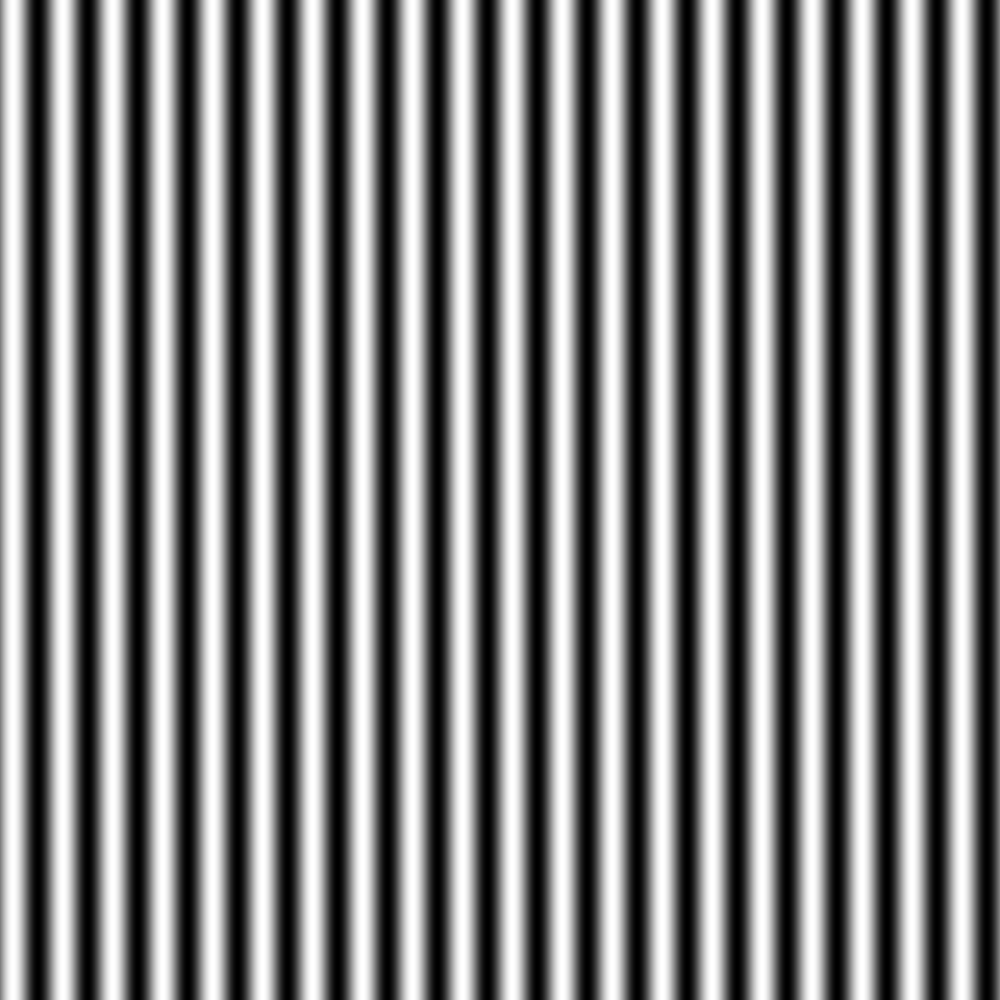
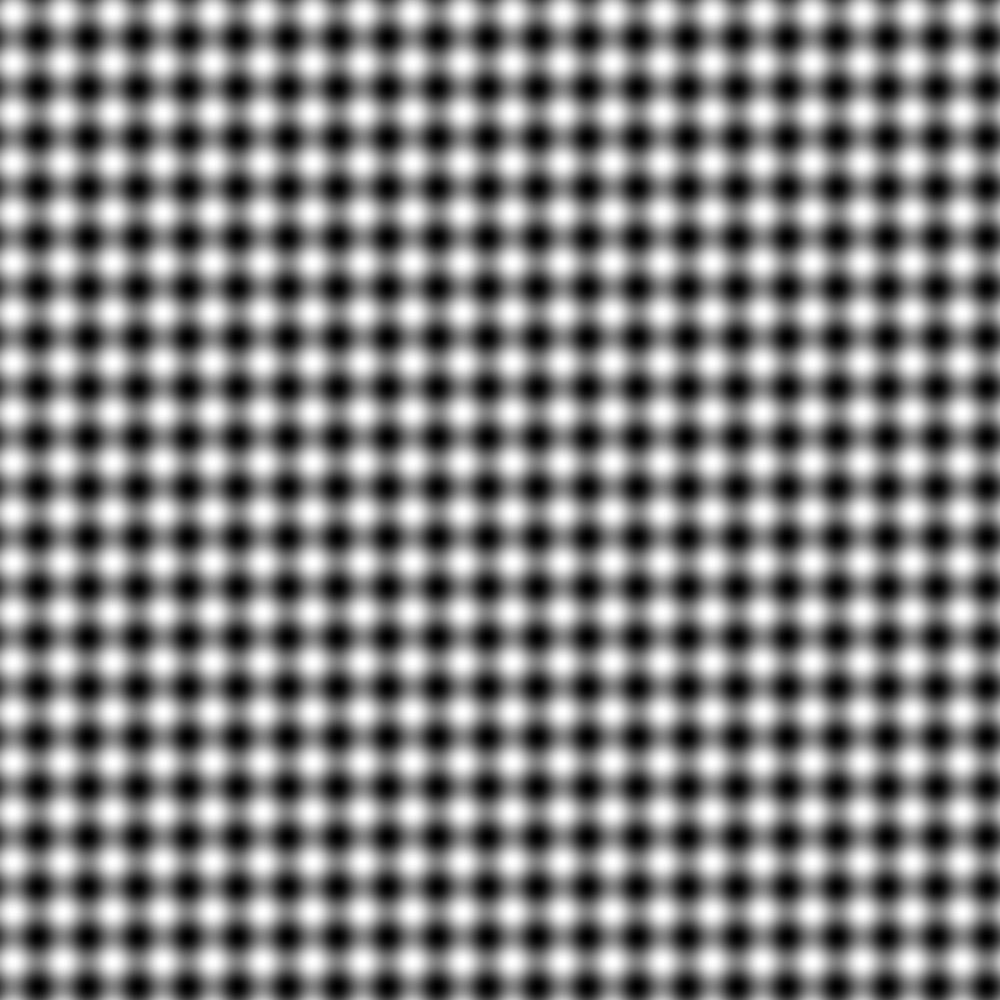
More playing with IC

diff --git a/crazyflie_projects/Featureless_TTC/Data_analysis.py b/crazyflie_projects/Featureless_TTC/Data_analysis.py
@@ -138,7 +138,7 @@ class DataParser:
             for i in range(1,HEIGHT_PIXELS - 1): 
                 for j in range(1,WIDTH_PIXELS - 1):
                     Ix[i,j] = np.sum(Cur_img[i-1:i+2,j-1:j+2] * Kx)/self.w
-                    Iy[i,j] = np.sum(Cur_img[i-1:i+2,j-1:j+2] * Ky)/self.w
+                    Iy[i,j] = -np.sum(Cur_img[i-1:i+2,j-1:j+2] * Ky)/self.w
 
 
 
@@ -195,81 +195,51 @@ class DataParser:
             print(f"Current Image: {n}/{self.Camera_array.shape[0]}")
                 
     def Plotter(self): #plot results
+        
+        fig, ax = plt.subplots(3,1, sharex = True)
+        ax[0].set_title("TTC Comparison")
+        # ax[0].plot(self.Time,self.TTC_est1,'r', label = 'TTC_est1')
+        ax[0].plot(self.Time,self.Tau,'b',label = 'TTC')
+        ax[0].plot(self.Time,self.TTC_est2,'g',label = 'TTC_est2')
+        ax[0].set_ylabel("TTC (seconds)")
+        ax[0].set_ylim(-1,6)
+        ax[0].grid()
+        ax[0].legend(loc='upper right')
+
+        ax[1].plot(self.Time,self.Z_pos,'g', label = 'Z position')
+        ax[1].set_ylim(-1,2.5)
+        ax[1].axhline(2.10,color='k',linestyle='dashed',label='Ceiling Height')
+        ax[1].set_ylabel("Position (m)")
+        ax[1].grid()
+        ax[1].legend(loc='lower right')
+
+        ax[2].plot(self.Time,self.Z_vel,color = 'black', label = 'Z velocity')
+        ax[2].plot(self.Time,self.X_vel,color = 'r', label = 'X velocity')
+        ax[2].set_ylim(-1,4.0)
+        ax[2].set_ylabel("Velocity (m)")
+        ax[2].set_xlabel("Time") 
+        ax[2].grid()
+        ax[2].legend(loc='upper right')
 
 
-        fig2 = plt.figure(1)
-        ax = fig2.add_subplot(111)
+        #plt.figure(2)
+        fig2 , ax2 = plt.subplots(2,1, sharex = True)
+        ax2[0].set_title('Optical Flow Comparison')
+        ax2[0].plot(self.Time,self.OFy, color = 'black', label = 'OFy')
+        ax2[0].plot(self.Time,self.OFy_est, color = 'r',label = 'OFy_est')
+        ax2[0].set_ylim(-1,10.0)
+        ax2[0].grid()
+        ax2[0].legend()
 
-        ax.plot(self.Time-self.Time[0],self.TTC_est2,'rx',label="Tau_algortihm")
-        ax.plot(self.Time-self.Time[0],self.Tau,label="Tau_actual")
-        ax.set_xlim(0,1.5)
-        ax.set_ylim(-1,4)
-
-        ax.grid()
-        ax.legend()
-
-        fig2.tight_layout()
-
-
-
-        fig3 = plt.figure(2)
-        ax = fig3.add_subplot(111)
-
-        ax.plot(self.Time-self.Time[0],self.OFy_est,'rx',label="OFy_est")
-        ax.plot(self.Time-self.Time[0],self.OFy,label="OFy_actual")
-        ax.set_xlim(0,1.5)
-        ax.set_ylim(-20,0)
-        ax.grid()
-        ax.legend()
-
-        fig3.tight_layout()
+        ax2[1].plot(self.Time,self.OFx, color = 'black',label = 'OFx')
+        ax2[1].plot(self.Time,self.OFx_est, color = 'b',label = 'OFx_est')
+        ax2[1].set_xlabel("Time")
+        ax2[1].set_ylabel('Optical Flow')
+        ax2[1].set_ylim(-1,10.0)
+        ax2[1].grid()
+        ax2[1].legend()
 
         plt.show()
-        
-        # fig, ax = plt.subplots(3,1, sharex = True)
-        # ax[0].set_title("TTC Comparison")
-        # # ax[0].plot(self.Time,self.TTC_est1,'r', label = 'TTC_est1')
-        # ax[0].plot(self.Time,self.Tau,'b',label = 'TTC')
-        # ax[0].plot(self.Time,self.TTC_est2,'g',label = 'TTC_est2')
-        # ax[0].set_ylabel("TTC (seconds)")
-        # ax[0].set_ylim(-1,6)
-        # ax[0].grid()
-        # ax[0].legend(loc='upper right')
-
-        # ax[1].plot(self.Time,self.Z_pos,'g', label = 'Z position')
-        # ax[1].set_ylim(-1,2.5)
-        # ax[1].axhline(2.10,color='k',linestyle='dashed',label='Ceiling Height')
-        # ax[1].set_ylabel("Position (m)")
-        # ax[1].grid()
-        # ax[1].legend(loc='lower right')
-
-        # ax[2].plot(self.Time,self.Z_vel,color = 'black', label = 'Z velocity')
-        # ax[2].plot(self.Time,self.X_vel,color = 'r', label = 'X velocity')
-        # ax[2].set_ylim(-1,4.0)
-        # ax[2].set_ylabel("Velocity (m)")
-        # ax[2].set_xlabel("Time") 
-        # ax[2].grid()
-        # ax[2].legend(loc='upper right')
-
-
-        # #plt.figure(2)
-        # fig2 , ax2 = plt.subplots(2,1, sharex = True)
-        # ax2[0].set_title('Optical Flow Comparison')
-        # ax2[0].plot(self.Time,self.OFy, color = 'black', label = 'OFy')
-        # ax2[0].plot(self.Time,self.OFy_est, color = 'r',label = 'OFy_est')
-        # ax2[0].set_ylim(-1,10.0)
-        # ax2[0].grid()
-        # ax2[0].legend()
-
-        # ax2[1].plot(self.Time,self.OFx, color = 'black',label = 'OFx')
-        # ax2[1].plot(self.Time,self.OFx_est, color = 'b',label = 'OFx_est')
-        # ax2[1].set_xlabel("Time")
-        # ax2[1].set_ylabel('Optical Flow')
-        # ax2[1].set_ylim(-1,10.0)
-        # ax2[1].grid()
-        # ax2[1].legend()
-
-        # plt.show()
 
 
 if __name__ == '__main__':

diff --git a/crazyflie_projects/Featureless_TTC/Theoretical_Work/Analytical_Example_Angled-Flight.py b/crazyflie_projects/Featureless_TTC/Theoretical_Work/Analytical_Example_Angled-Flight.py
@@ -7,12 +7,12 @@ import cv2 as cv
 
 ## PLOT BRIGHTNESS PATTERN FROM 2.4.1 HORIZONTAL MOTION
 I_0 = 255   # Brightness value (0-255)
-L = 0.1    # [m]
+L = 0.05    # [m]
 
 ## CAMERA PARAMETERS
 WIDTH_PIXELS = 160
 HEIGHT_PIXELS = 160
-FPS = 60                # Frame Rate [1/s]
+FPS = 100                # Frame Rate [1/s]
 w = 3.6e-6              # Pixel width [m]
 f = 0.66e-3/2             # Focal Length [m]
 # f_effective = f/2 # halve focal length if half the pixels
@@ -20,9 +20,9 @@ O_x = WIDTH_PIXELS/2    # Pixel X_offset [pixels]
 O_y = HEIGHT_PIXELS/2   # Pixel Y_offset [pixels]
 
 
-z_0 = 0.6    # Camera height [m]
-vz = -0.2    # Camera velocity [m/s]
-vx = 0.4
+z_0 = 1.3    # Camera height [m]
+vz = -1    # Camera velocity [m/s]
+vx = 0.0
 
 ## PRE-ALLOCATE IMAGE ARRAY [pixels]
 u_p = np.arange(0,WIDTH_PIXELS,1)
@@ -41,14 +41,21 @@ def I_continuous(u_p,z_0,t):
     return I_0/2 * np.sin(2*np.pi*(u*d/(f*L) + vx*t/L)) + I_0/2
 
 
-def I_pixel(u_p,z_0,t):
+def I_pixel(u_p,v_p,z_0,t):
 
     ## CONVERT PIXEL INDEX TO METERS
     u = (u_p - O_x)*w + w/2 
+    v = (v_p - O_y)*w + w/2 
+
     z = z_0 + vz*t
 
     ## RETURN AVERAGE BRIGHTNESS VALUE OVER PIXEL
-    I = I_0/2 * (f*L/(np.pi*z*w) * np.sin(np.pi*z*w/(f*L) * np.sin(2*np.pi*(z*u/(f*L) + vx*t/L))) + 1)
+    # I = I_0/2 * (f*L/(np.pi*z*w) * np.sin(np.pi*z*w/(f*L) * np.sin(2*np.pi*(z*u/(f*L) + vx*t/L))) + 1)
+
+    I_x = I_0/2*(np.sin(2*np.pi*(z*u/(f*L) + vx*t/L) ) + 1)
+    I_y = I_0/2*(np.sin(2*np.pi*(z*v/(f*L) + 0*t/L) ) + 1)
+    I = (I_x+I_y)/2
+
 
     ## CLIP VALUES TO BE HIGH/LOW
     # I = np.round(I/255,0)*255
@@ -60,7 +67,7 @@ def I_pixel(u_p,z_0,t):
 ## IMAGE SENSOR PLOT
 fig = plt.figure()
 ax = fig.add_subplot(111)
-im = ax.imshow(I_pixel(U_p,z_0,0), interpolation='none', 
+im = ax.imshow(I_pixel(U_p,V_p,z_0,0), interpolation='none', 
                 vmin=0, vmax=255, cmap=cm.gray,
                 origin='upper',
 )
@@ -91,7 +98,7 @@ def cam_alg(Cur_img,Prev_img):
     for i in range(1,HEIGHT_PIXELS - 1): 
         for j in range(1,WIDTH_PIXELS - 1):
             Ix[i,j] = np.sum(Cur_img[i-1:i+2,j-1:j+2] * Kx)/(w)
-            Iy[i,j] = np.sum(Cur_img[i-1:i+2,j-1:j+2] * Ky)/(w)
+            Iy[i,j] = -np.sum(Cur_img[i-1:i+2,j-1:j+2] * Ky)/(w)
 
 
 
@@ -131,8 +138,8 @@ def animate_func(i):
     if t>=t_contact:
         return
 
-    Cur_img = I_pixel(U_p,z_0,t)
-    Prev_img = I_pixel(U_p,z_0,t-1/FPS)
+    Cur_img = I_pixel(U_p,V_p,z_0,t)
+    Prev_img = I_pixel(U_p,V_p,z_0,t-1/FPS)
     b = cam_alg(Cur_img,Prev_img)
     d = (z_0 + vz*t)
     Tau_act = -d/vz
@@ -152,7 +159,7 @@ def animate_func(i):
     t_List.append(t)
 
     ## UPDATE IMAGE
-    # im.set_array(I_pixel(U_p,z_0,t))
+    # im.set_array(I_pixel(U_p,V_p,z_0,t))
     
 anim = animation.FuncAnimation(fig, 
                                animate_func, 
@@ -168,9 +175,6 @@ ax = fig2.add_subplot(111)
 
 ax.plot(t_List,Tau_est_List,'rx',label="Tau_algortihm")
 ax.plot(t_List,Tau_act_List,label="Tau_actual")
-ax.set_xlim(0,1.5)
-ax.set_ylim(-1,4)
-
 ax.grid()
 ax.legend()
 
@@ -183,8 +187,6 @@ ax = fig3.add_subplot(111)
 
 ax.plot(t_List,Vx_est_List,'rx',label="OFy_estimate")
 ax.plot(t_List,Vx_act_List,label="OFy_actual")
-ax.set_xlim(0,1.5)
-ax.set_ylim(-20,0)
 ax.grid()
 ax.legend()
 

diff --git a/crazyflie_projects/Featureless_TTC/Theoretical_Work/Horizontal_Flight/Floor_Pattern.py b/crazyflie_projects/Featureless_TTC/Theoretical_Work/Horizontal_Flight/Floor_Pattern.py
@@ -30,7 +30,10 @@ y = np.linspace(-1.0, 1.0, 1000)    # [m]
 X, Y = np.meshgrid(x, y)
 
 def Intensity(X):
-    I = I_0/2*(np.sin(2*np.pi*X/L)+1)
+    I_x = I_0/2*(np.sin(2*np.pi*X/L)+1)
+    I_y = I_0/2*(np.sin(2*np.pi*Y/L)+1)
+    I = (I_x+I_y)/2
+
     # I = np.round(I/255,0)*255
     return I
 
